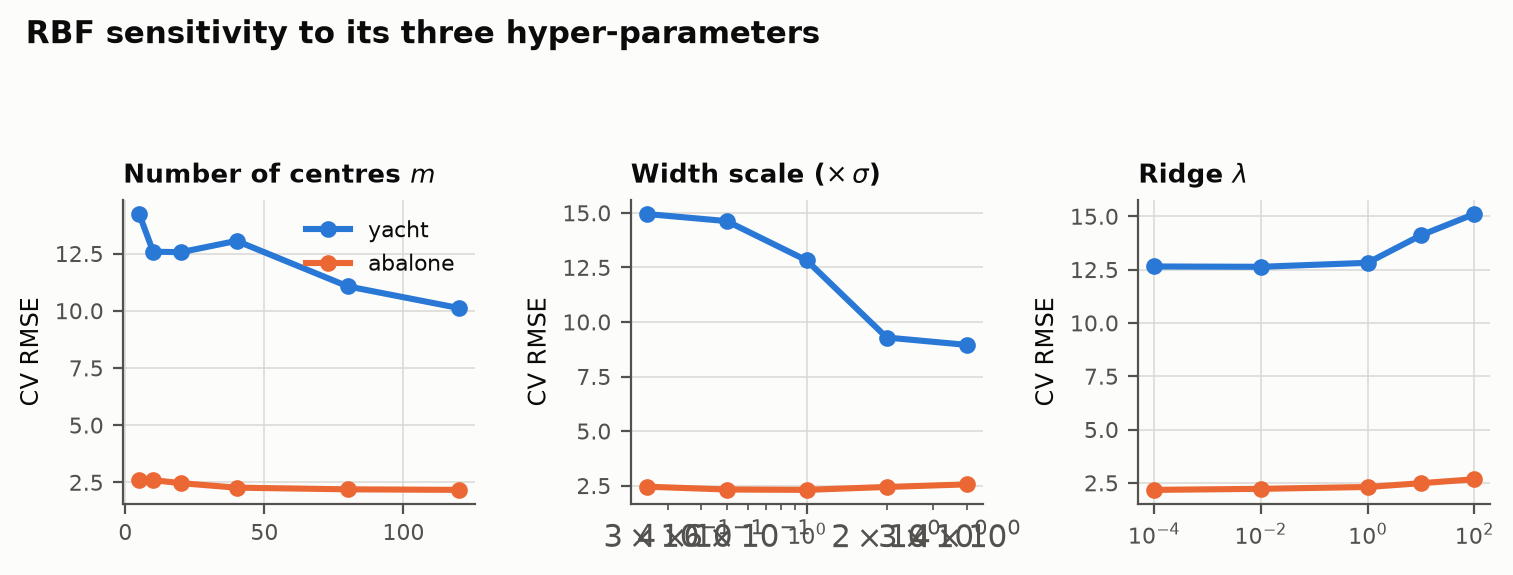
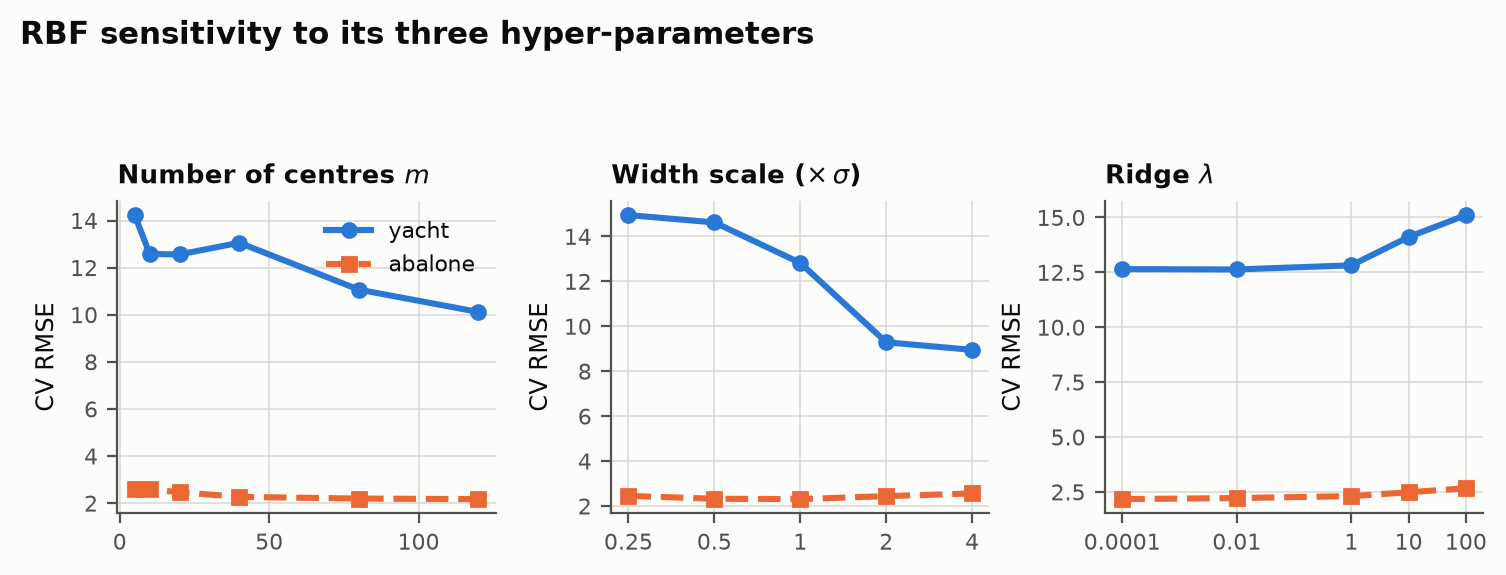
Make figures legible in black and white (secondary encoding)
Add hatch patterns to the RBF/RBF-A/KRR bars, distinct line styles and
markers to the ablation curves, and explicit log-axis ticks. Figures now
convey series identity without relying on colour, per journal guidelines.

diff --git a/src/rbf_benchmark.py b/src/rbf_benchmark.py
@@ -241,11 +241,16 @@ def fig_ablation(abl):
     logx = {"n_centers": False, "sigma_scale": True, "reg": True}
     fig, axes = plt.subplots(1, 3, figsize=(7.6, 2.9))
     for ax, param in zip(axes, ["n_centers", "sigma_scale", "reg"]):
-        for dname, col in zip(abl, [BLUE, ORANGE]):
+        styles = [("-", "o"), ("--", "s")]
+        for (dname, col), (lsty, mk) in zip(zip(abl, [BLUE, ORANGE]), styles):
             xs, ys = abl[dname][param]
-            ax.plot(xs, ys, "-o", color=col, lw=2.2, ms=5, label=dname)
+            ax.plot(xs, ys, ls=lsty, marker=mk, color=col, lw=2.2, ms=5, label=dname)
         if logx[param]:
             ax.set_xscale("log")
+            vals = abl[list(abl)[0]][param][0]
+            ax.set_xticks(vals)
+            ax.set_xticklabels([f"{v:g}" for v in vals])
+            ax.minorticks_off()
         ax.set_title(titles[param], fontsize=9.5, fontweight="bold",
                      color=INK, loc="left")
         ax.set_ylabel("CV RMSE", fontsize=8.5)
@@ -285,6 +290,7 @@ def fig_insight(datasets, dn_list, mn_list, R):
 def fig_improvement(rmse_tbl, dn_list):
     variants = ["RBF", "RBF-A", "KRR"]
     cols = [ORANGE, BLUE, VIOLET]
+    hatches = ["", "////", "...."]
     x = np.arange(len(dn_list))
     w = 0.26
     fig, ax = plt.subplots(figsize=(7.6, 3.4))
@@ -293,6 +299,7 @@ def fig_improvement(rmse_tbl, dn_list):
         rf = [rmse_tbl[(dn, "RF")] for dn in dn_list]
         norm = [a / b for a, b in zip(vals, rf)]
         ax.bar(x + (i - 1) * w, norm, w, color=c, zorder=3,
+               hatch=hatches[i], edgecolor="white", linewidth=0.5,
                label={"RBF": "RBF (classic)", "RBF-A": "RBF-A (proposed)",
                       "KRR": "KRR (kernel limit)"}[v])
     ax.axhline(1.0, color=INK2, lw=1, ls="--", zorder=2)

diff --git a/src/rbf_experiments.py b/src/rbf_experiments.py
@@ -101,12 +101,13 @@ def fig_receptive_fields():
     xs = np.linspace(-3, 3, 500)
     centers = [-2.0, -0.5, 1.0, 2.2]
     cols = [BLUE, ORANGE, AQUA, YELLOW]
+    lss = ["-", "--", "-.", ":"]
     sig = 0.6
     fig, ax = plt.subplots(figsize=(6.4, 3.2))
     for i, c in enumerate(centers):
         y = np.exp(-(xs - c) ** 2 / (2 * sig ** 2))
         ax.fill_between(xs, y, color=cols[i], alpha=0.13, lw=0)
-        ax.plot(xs, y, color=cols[i], lw=2.4)
+        ax.plot(xs, y, color=cols[i], ls=lss[i], lw=2.4)
         ax.plot([c], [1.0], marker="o", ms=6, color=cols[i],
                 mec="white", mew=1.2, zorder=4)
         ax.annotate(f"$c_{i+1}$", (c, 1.0), textcoords="offset points",
@@ -207,11 +208,11 @@ def experiment_A():
     fig, ax = plt.subplots(figsize=(6.6, 3.7))
     ax.scatter(xtr, ytr, s=18, color="#8A97A8", alpha=0.65, zorder=2,
                edgecolor="white", linewidth=0.4, label="train (noisy)")
-    ax.plot(grid, target(grid.ravel()), color=INK2, lw=1.4, ls=(0, (5, 3)),
+    ax.plot(grid, target(grid.ravel()), color=INK2, lw=1.6, ls=":",
             zorder=3, label="true function")
     ax.plot(grid, rbf.predict(grid), color=BLUE, lw=2.6, zorder=5,
             label=f"RBF  (test RMSE = {rbf_test:.3f})")
-    ax.plot(grid, mlp.predict(grid), color=ORANGE, lw=2.6, zorder=4,
+    ax.plot(grid, mlp.predict(grid), color=ORANGE, lw=2.6, ls="-.", zorder=4,
             label=f"MLP  (test RMSE = {mlp_test:.3f})")
     ax.set_xlabel("$x$"); ax.set_ylabel("$y$")
     ax.set_title("Both models recover the signal; the difference is training "
